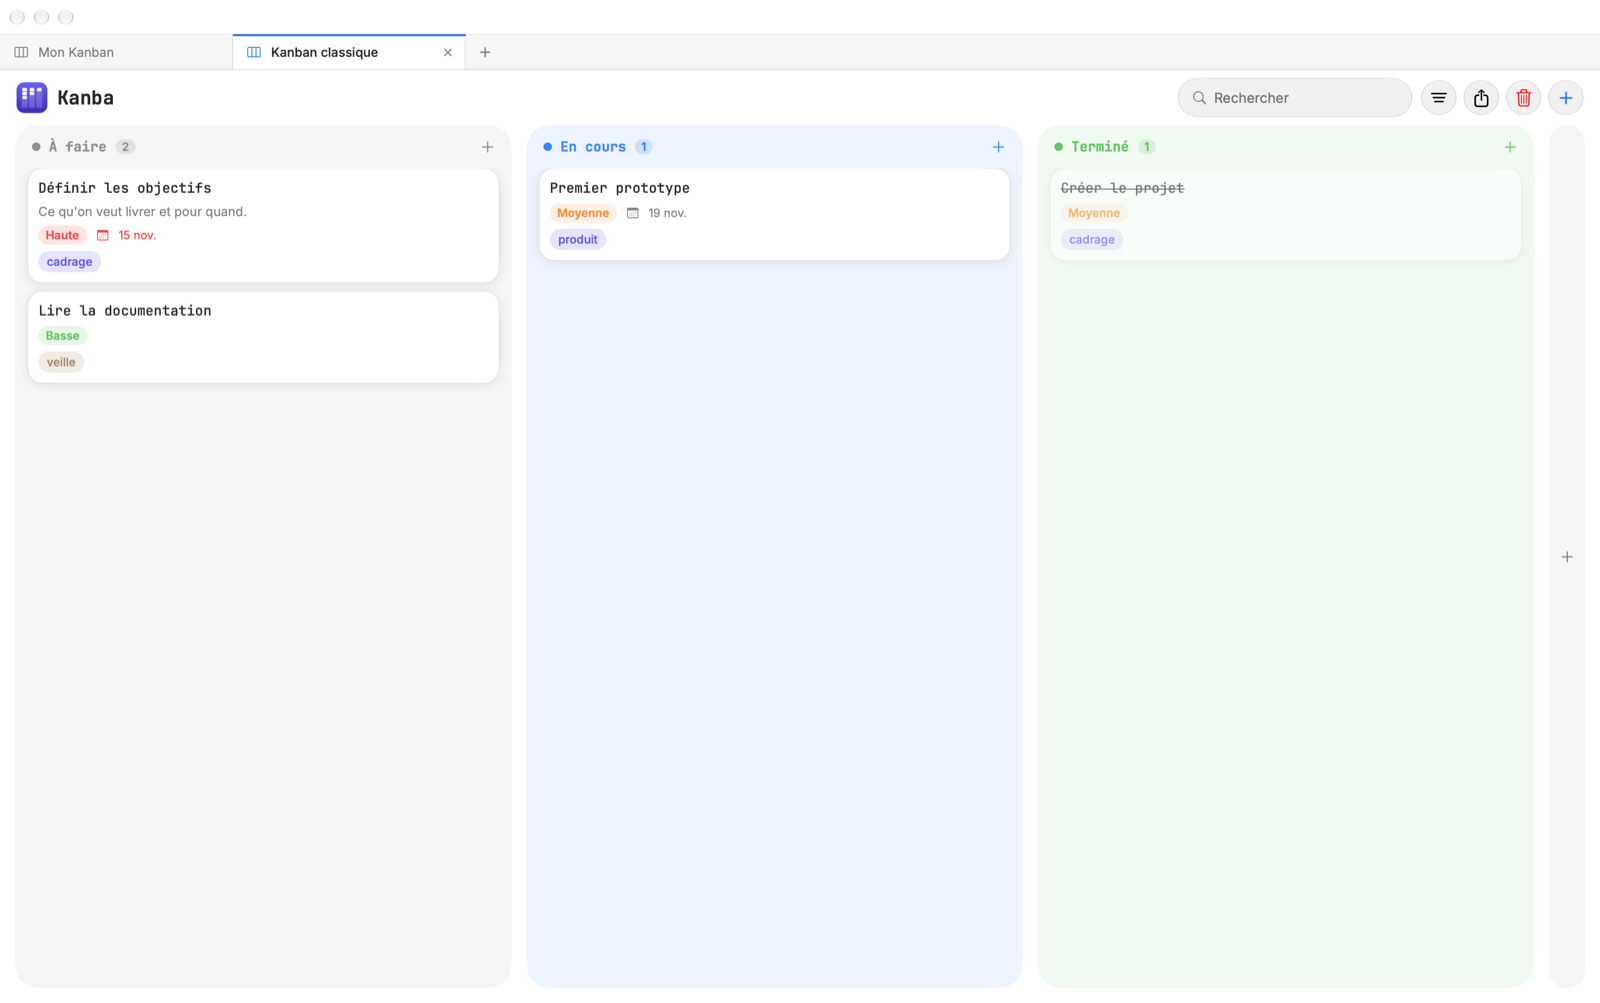
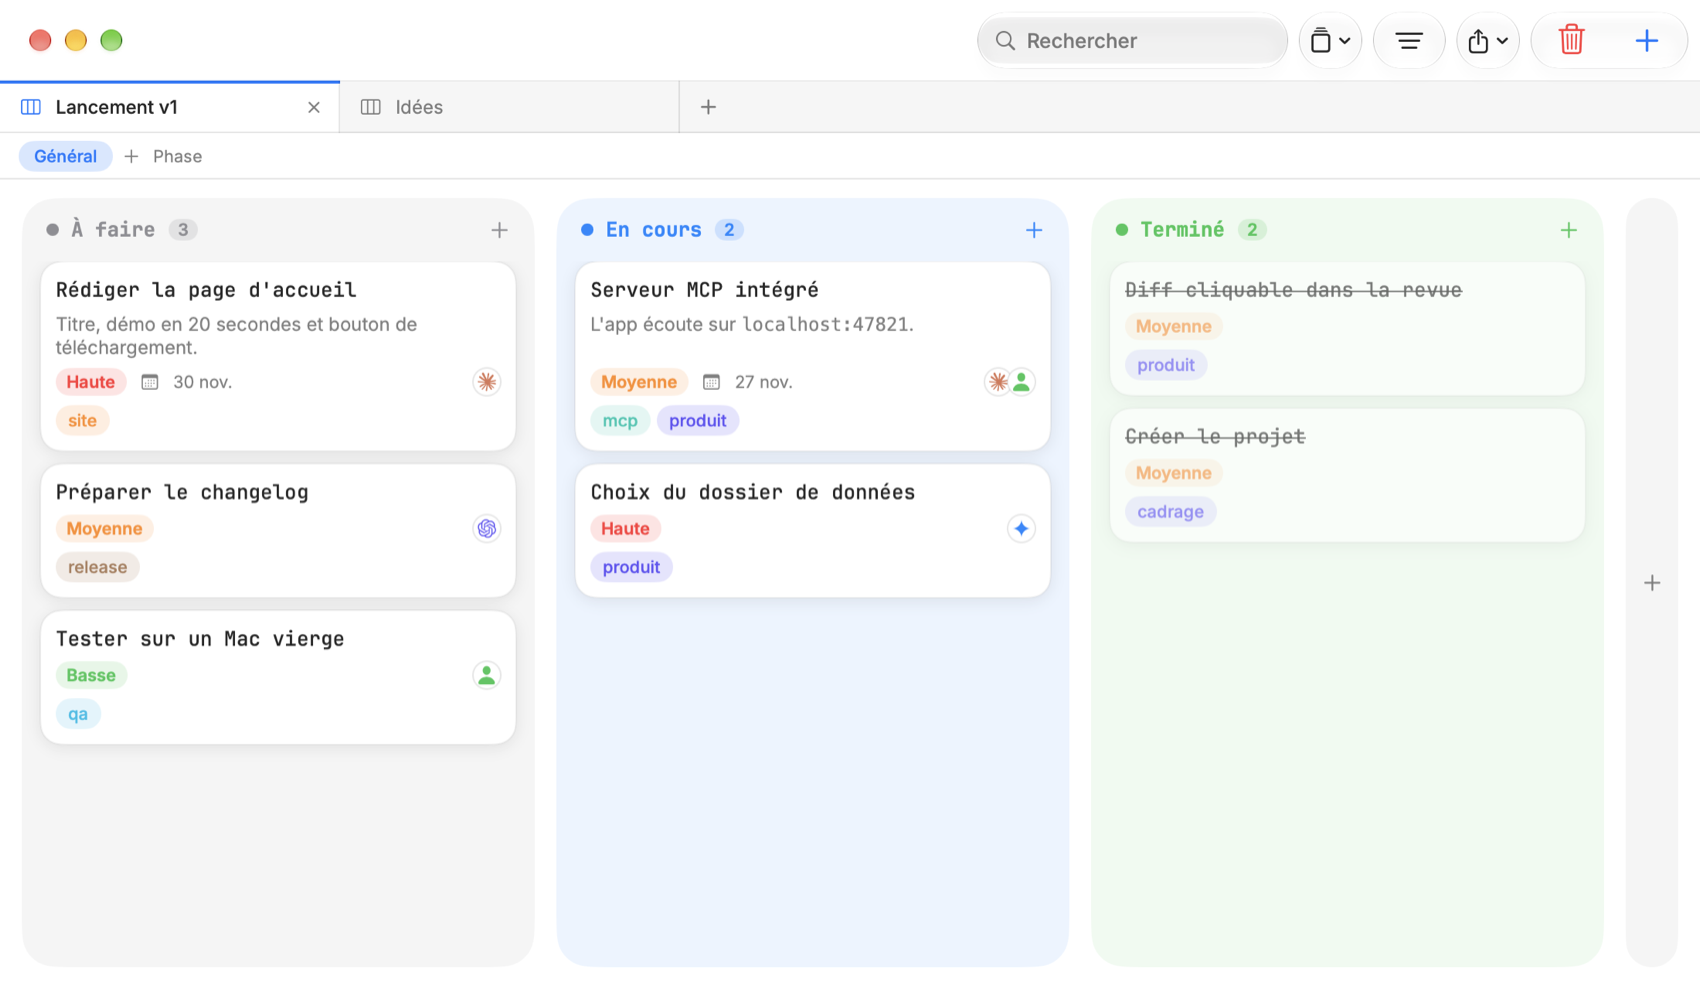
Release only when VERSION changes, README and screenshots refreshed

diff --git a/README.md b/README.md
@@ -15,18 +15,18 @@
 - **Manual card order**: drag cards to rank them within a column (top = do first). AI clients read and set the order too (`position`, `reorder_cards`).
 - **Phases**: split a board into sub-boards (e.g. the phases of a project), each with its own columns and cards.
 - **Import** a board from JSON; **export** it as JSON, CSV (opens in Excel) or Markdown.
-- **Plain JSON storage** in `~/Library/Application Support/Kanban/boards.json`; the app reloads it live, so manual edits and scripts just work.
-- **AI-ready via MCP**: Kanba runs a local MCP server, so Claude (or any MCP client) can read your boards and propose changes.
-- **Review before apply**: AI edits are never written directly. They arrive as a git-diff-like proposal that you accept all at once or change by change.
+- **Plain JSON storage** in a folder you choose (Projets menu → *Dossier des données…*; default `~/Library/Application Support/Kanban`). If the folder already holds a `boards.json`, it is loaded; otherwise your boards are copied there. The app watches the folder and the file, so manual edits, scripts, a synced or dropped-in `boards.json` are picked up live.
+- **AI-ready via MCP**: Kanba runs a local MCP server (nothing else to install), so Claude, Codex, Cursor, Gemini… can read your boards and propose changes. Assign cards to AIs (several allowed) with the model and effort level.
+- **Review before apply**: AI edits are never written directly. They arrive as a git-diff-like proposal that you accept all at once or change by change; click a change to open its full before/after in a side panel.
 - Toasts tell you what happened, with the logo of whoever did it (you or the AI).
 
-![An AI proposal waiting for review](docs/proposal.png)
+![An AI proposal in review, with the detail of one change](docs/proposal.png)
 
 > The app UI is currently in French.
 
 ## Install
 
-Requirements: macOS 26+, Xcode command line tools (Swift 6).
+Download the latest `Kanba-X.Y.Z.zip` from [Releases](https://github.com/PerretWilliam/kanba/releases), or build it yourself (macOS 26+, Xcode command line tools, Swift 6):
 
 ```bash
 git clone https://github.com/PerretWilliam/kanba.git
@@ -54,7 +54,7 @@ How it works: tools build a proposal (the base state plus the proposed state) in
 ```
 Sources/Kanban/   SwiftUI app (Model, Views, Components, Support)
 tools/make-icon.swift  regenerates Icon.icns
-build.sh          builds Kanba.app
+build.sh          builds Kanba.app (version = the VERSION file)
 ```
 
 See [CLAUDE.md](CLAUDE.md) for the data format.
@@ -69,6 +69,6 @@ Issues and pull requests are welcome — see [CONTRIBUTING.md](CONTRIBUTING.md).
 
 ## Releases & tests
 
-Download `Kanba-X.Y.Z.zip` from the [Releases](https://github.com/PerretWilliam/kanba/releases) page (ad-hoc signed: right-click → Open the first time). See [CONTRIBUTING.md](CONTRIBUTING.md) for `just test` / `just cover` (100% line coverage of the logic layer, MCP server included).
+Releases are published automatically when the `VERSION` file changes on `main` (ad-hoc signed app: right-click → Open the first time). See [CONTRIBUTING.md](CONTRIBUTING.md) for `just test` / `just cover` (100% line coverage of the logic layer, MCP server included).
 
 AI logos are from [Simple Icons](https://simpleicons.org) (CC0); the marks belong to their owners and only identify the AI assigned to a card.

diff --git a/CONTRIBUTING.md b/CONTRIBUTING.md
@@ -32,7 +32,7 @@ Requires macOS 26+ and Swift 6 (the code builds in Swift 5 language mode).
 
 ## Releases
 
-Maintainers: `just release 1.2.0` (from a clean `main`) runs the gates, tags `v1.2.0` and pushes it. The Release workflow rebuilds, tests, zips `Kanba.app` (ad-hoc signed, not notarized: right-click → Open the first time), and publishes a GitHub Release with generated notes, and `SHA256SUMS`.
+The app version is the `VERSION` file. A release only happens when it changes on `main`: `just release 1.2.0` (from a clean `main`) runs the gates, writes `VERSION`, commits and pushes. The Release workflow then tests, builds, zips `Kanba.app` (ad-hoc signed, not notarized: right-click → Open the first time), tags `v1.2.0` and publishes a GitHub Release with the changelog and `SHA256SUMS`. Any other push to `main` builds nothing and tags nothing.
 
 ## Reporting bugs
 
